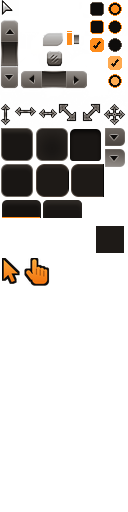
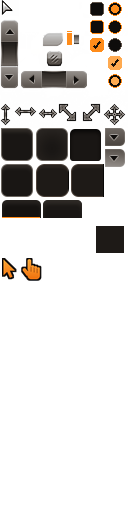
Menu fixes after testing: working corner links at the real screen edges, real server status, ENTERING... state, smaller cursor
- corner links/status are children of the full-screen background instead of the
  narrower menu canvas, so they sit at the real screen corners and get clicks
- server status: a server that doesn't answer is now OFFLINE (the browser
  query pretended it answered); ONLINE only after a real reply
- no Entering the game message box: PLAY shows ENTERING... until in game
- arrow and hand cursors a bit smaller

Claude-Session: https://claude.ai/code/session_019iFPUiJ4pn1jDKpmaqQk5z

Changed region(s): [[0.0, 0.5, 0.4062, 0.5625]]

diff --git a/Client/core/CMainMenu.cpp b/Client/core/CMainMenu.cpp
@@ -237,6 +237,20 @@ CMainMenu::CMainMenu(CGUI* pManager)
             m_pMajorRpConnecting->SetSize(CVector2D(1, 1), true);
             m_pMajorRpConnecting->SetProperty("MousePassThroughEnabled", "True");
             m_pMajorRpConnecting->SetVisible(false);
+            // "ENTERING..." (server answered, game is loading in) covers the CONNECTING text; spinner stays on top
+            m_pMajorRpEntering = reinterpret_cast<CGUIStaticImage*>(pManager->CreateStaticImage(m_pMajorRpConnecting));
+            if (m_pMajorRpEntering->LoadFromFile(PathJoin(strLangDir, "menu_entering.png")))
+            {
+                m_pMajorRpEntering->SetPosition(CVector2D(0, 0), true);
+                m_pMajorRpEntering->SetSize(CVector2D(1, 1), true);
+                m_pMajorRpEntering->SetProperty("MousePassThroughEnabled", "True");
+                m_pMajorRpEntering->SetVisible(false);
+            }
+            else
+            {
+                m_pManager->DestroyElementRecursive(m_pMajorRpEntering);
+                m_pMajorRpEntering = nullptr;
+            }
             for (int i = 0; i < 12; i++)
             {
                 CGUIStaticImage* pFrame = reinterpret_cast<CGUIStaticImage*>(pManager->CreateStaticImage(m_pMajorRpConnecting));
@@ -525,6 +539,7 @@ CMainMenu::~CMainMenu()
 #if MAJORRP_PLAY_CONNECTING_STATE
     destroyElement(m_pMajorRpStatus);
     m_pMajorRpConnecting = nullptr;  // child of the PLAY image, freed with it
+    m_pMajorRpEntering = nullptr;
     m_majorRpSpinner.clear();
 #endif
 
@@ -1041,14 +1056,17 @@ void CMainMenu::SetIsIngame(bool bIsIngame)
 void CMainMenu::MajorRpCreateCornerInfo()
 {
     CGUI*       pManager = g_pCore->GetGUI();
-    const float fScale = m_iMenuSizeY / 1080.0f;
-    const float fMargin = 30.0f * fScale;
-    const float fRowY = m_iMenuSizeY - fMargin - 22.0f * fScale;
+    // Children of the full-screen background (the menu canvas is narrower than the screen), placed in
+    // screen corners: background-local = screen - background position
+    const float     fScale = m_ScreenSize.fY / 1080.0f;
+    const float     fMargin = 30.0f * fScale;
+    const CVector2D vecOrigin = CVector2D(0, 0) - m_vecBgBasePos;
+    const float     fRowY = vecOrigin.fY + m_ScreenSize.fY - fMargin - 22.0f * fScale;
     const char* szLinks[2] = {"menu_link_discord", "menu_link_youtube"};
-    float       fX = fMargin;
+    float           fX = vecOrigin.fX + fMargin;
     for (int i = 0; i < 2; i++)
     {
-        CGUIStaticImage* pLink = reinterpret_cast<CGUIStaticImage*>(pManager->CreateStaticImage(m_pCanvas));
+        CGUIStaticImage* pLink = reinterpret_cast<CGUIStaticImage*>(pManager->CreateStaticImage(m_pBackground));
         if (!pLink->LoadFromFile(SString("cgui\\images\\majorrp\\%s.png", szLinks[i])))
         {
             m_pManager->DestroyElementRecursive(pLink);
@@ -1059,7 +1077,6 @@ void CMainMenu::MajorRpCreateCornerInfo()
         const CVector2D vecSize = vecNative * (0.5f * fScale);
         pLink->SetPosition(CVector2D(fX, fRowY), false);
         pLink->SetSize(vecSize, false);
-        pLink->SetProperty("InheritsAlpha", "False");
         pLink->SetProperty("MouseCursorImage", "set:CGUI-Images image:MouseHand");
         pLink->SetClickHandler(GUI_CALLBACK(&CMainMenu::OnMajorRpLinkClick, this));
         pLink->SetMouseEnterHandler(GUI_CALLBACK(&CMainMenu::OnMajorRpLinkEnter, this));
@@ -1084,28 +1101,26 @@ void CMainMenu::MajorRpCreateCornerInfo()
     const char* szDots[3] = {"green", "red", "grey"};
     for (int i = 0; i < 3; i++)
     {
-        CGUIStaticImage* pDot = reinterpret_cast<CGUIStaticImage*>(pManager->CreateStaticImage(m_pCanvas));
+        CGUIStaticImage* pDot = reinterpret_cast<CGUIStaticImage*>(pManager->CreateStaticImage(m_pBackground));
         if (!pDot->LoadFromFile(SString("cgui\\images\\majorrp\\menu_dot_%s.png", szDots[i])))
         {
             m_pManager->DestroyElementRecursive(pDot);
             continue;
         }
         pDot->SetSize(CVector2D(16.0f * fScale, 16.0f * fScale), false);
-        pDot->SetProperty("InheritsAlpha", "False");
         pDot->SetProperty("MousePassThroughEnabled", "True");
         pDot->SetVisible(false);
         m_pMajorRpDots[i] = pDot;
     }
 
-    m_pMajorRpServerText = reinterpret_cast<CGUILabel*>(pManager->CreateLabel(m_pCanvas, ""));
+    m_pMajorRpServerText = reinterpret_cast<CGUILabel*>(pManager->CreateLabel(m_pBackground, ""));
     m_pMajorRpServerText->SetFont("majorrp-stat");
     m_pMajorRpServerText->SetHorizontalAlign(CGUI_ALIGN_RIGHT);
     m_pMajorRpServerText->SetVerticalAlign(CGUI_ALIGN_VERTICALCENTER);
     m_pMajorRpServerText->SetTextColor(220, 212, 204);
-    m_pMajorRpServerText->SetProperty("InheritsAlpha", "False");
     m_pMajorRpServerText->SetProperty("MousePassThroughEnabled", "True");
     m_pMajorRpServerText->SetSize(CVector2D(500.0f * fScale, 22.0f * fScale), false);
-    m_pMajorRpServerText->SetPosition(CVector2D(m_iMenuSizeX - fMargin - 500.0f * fScale, fRowY), false);
+    m_pMajorRpServerText->SetPosition(CVector2D(vecOrigin.fX + m_ScreenSize.fX - fMargin - 500.0f * fScale, fRowY), false);
 }
 
 bool CMainMenu::OnMajorRpLinkClick(CGUIElement* pElement)
@@ -1149,16 +1164,18 @@ void CMainMenu::MajorRpUpdateServerStatus()
         m_ulMajorRpQueryTick = ulNow;
     }
 
-    m_pMajorRpServerQuery->Pulse(true);
+    // bRemoveNonResponding = true: a server that doesn't answer ends as "skipped" (offline). With false the
+    // browser code pretends it answered, which showed ONLINE for a server that was down.
+    const std::string strResult = m_pMajorRpServerQuery->Pulse(true, true);
 
     int iState = m_iMajorRpServerState < 0 ? -1 : m_iMajorRpServerState;  // keep the last result while re-checking
-    if (m_pMajorRpServerQuery->bScanned)
+    if (strResult == "ParsedQuery")
     {
         iState = 1;
         m_usMajorRpPlayers = m_pMajorRpServerQuery->nPlayers;
         m_usMajorRpMaxPlayers = m_pMajorRpServerQuery->nMaxPlayers;
     }
-    else if (m_pMajorRpServerQuery->bSkipped)
+    else if (strResult == "NoReply" || m_pMajorRpServerQuery->bSkipped)
         iState = 0;
 
     if ((m_pMajorRpServerQuery->bScanned || m_pMajorRpServerQuery->bSkipped) && ulNow - m_ulMajorRpQueryTick > 30000)
@@ -1225,8 +1242,11 @@ void CMainMenu::MajorRpUpdateConnectState()
     if (!m_pMajorRpStatus)
         return;
 
-    CConnectManager*    pConnect = CCore::GetSingleton().GetConnectManager();
-    const bool          bConnecting = pConnect && pConnect->IsConnecting() && !GetIsIngame();
+    CConnectManager* pConnect = CCore::GetSingleton().GetConnectManager();
+    const bool       bServerConnecting = pConnect && pConnect->IsConnecting();
+    // After the server answers, the game loads and joins: still "connecting" until we are in game
+    const bool          bEntering = !GetIsIngame() && !bServerConnecting && CModManager::GetSingleton().IsLoaded();
+    const bool          bConnecting = (bServerConnecting || bEntering) && !GetIsIngame();
     const unsigned long ulNow = GetTickCount32();
 
     if (bConnecting != m_bMajorRpConnectingShown)
@@ -1234,8 +1254,20 @@ void CMainMenu::MajorRpUpdateConnectState()
         m_bMajorRpConnectingShown = bConnecting;
         if (m_pMajorRpConnecting)
             m_pMajorRpConnecting->SetVisible(bConnecting);
+        m_bMajorRpEnteringShown = !bEntering;  // force the text/spinner update below
         if (bConnecting)
             m_strMajorRpError.clear();
+    }
+
+    if (bEntering != m_bMajorRpEnteringShown)
+    {
+        m_bMajorRpEnteringShown = bEntering;
+        if (m_pMajorRpEntering)
+            m_pMajorRpEntering->SetVisible(bEntering);
+        // Icon spot inside menu_connecting.png / menu_entering.png (from the image generator)
+        const float fSpinnerX = (bEntering && m_pMajorRpEntering) ? 0.2695f : 0.2305f;
+        for (CGUIStaticImage* pFrame : m_majorRpSpinner)
+            pFrame->SetPosition(CVector2D(fSpinnerX, 0.3598f), true);
     }
 
     if (bConnecting && !m_majorRpSpinner.empty())
@@ -1254,7 +1286,7 @@ void CMainMenu::MajorRpUpdateConnectState()
     SString strText;
     if (bConnecting)
     {
-        strText = _("Click again to cancel");
+        strText = bEntering ? _("Loading the server, please wait") : _("Click again to cancel");
         m_pMajorRpStatus->SetTextColor(200, 192, 184);
         fAlpha = 1;
     }
@@ -1461,6 +1493,8 @@ bool CMainMenu::OnQuickConnectButtonClick(CGUIElement* pElement, bool left)
         pConnect->Abort();
         return true;
     }
+    if (CModManager::GetSingleton().IsLoaded())
+        return true;  // already loading into the server
     m_strMajorRpError.clear();
 #endif
     if (!g_pCore->IsNetworkReady())

diff --git a/Client/core/CMainMenu.h b/Client/core/CMainMenu.h
@@ -105,6 +105,8 @@ private:
     void                          MajorRpUpdateConnectState();
     void                          MajorRpPlaceStatusLabel();
     CGUIStaticImage*              m_pMajorRpConnecting = nullptr;
+    CGUIStaticImage*              m_pMajorRpEntering = nullptr;
+    bool                          m_bMajorRpEnteringShown = false;
     std::vector<CGUIStaticImage*> m_majorRpSpinner;
     CGUILabel*                    m_pMajorRpStatus = nullptr;
     bool                          m_bMajorRpConnectingShown = false;

diff --git a/Client/mods/deathmatch/logic/CClientGame.cpp b/Client/mods/deathmatch/logic/CClientGame.cpp
@@ -685,7 +685,9 @@ bool CClientGame::StartGame(const char* szNick, const char* szPassword, eServerT
             g_pCore->GetConsole()->SetVisible(false);
 
         // Display the status box
+#if !MAJORRP_PLAY_CONNECTING_STATE  // MAJOR RP: the PLAY button shows this state instead
         g_pCore->ShowMessageBox(_("CONNECTING"), _("Entering the game ..."), MB_ICON_INFO);
+#endif
 
         // Send the initial data to the server
         NetBitStreamInterface* pBitStream = g_pNet->AllocateNetBitStream();
